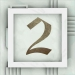
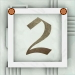
buildings and workers images updated

Changed region(s): [[0.8, 0.1067, 0.9067, 0.2133], [0.1067, 0.1067, 0.2133, 0.2133]]

diff --git a/src/main/java/it/polimi/ingsw/view/GUIpackage/TileButton.java b/src/main/java/it/polimi/ingsw/view/GUIpackage/TileButton.java
@@ -32,9 +32,10 @@ public class TileButton extends JButton {
     public TileButton(int row, int col, JPanel panel) {
         coordinate = new Coordinate(row, col);
         vSlot = new VirtualSlot(coordinate);
-        red = new ImageIcon(GUI.class.getResource("/Colors/red_normal.png")).getImage().getScaledInstance(90, 90, Image.SCALE_SMOOTH);
-        blue = new ImageIcon(GUI.class.getResource("/Colors/blue_normal.png")).getImage().getScaledInstance(90, 90, Image.SCALE_SMOOTH);
-        white = new ImageIcon(GUI.class.getResource("/Colors/white_normal.png")).getImage().getScaledInstance(90, 90, Image.SCALE_SMOOTH);
+        setBorder(null);
+        red = new ImageIcon(GUI.class.getResource("/WorkersAnimation/red.png")).getImage();
+        blue = new ImageIcon(GUI.class.getResource("/WorkersAnimation/blue.png")).getImage();
+        white = new ImageIcon(GUI.class.getResource("/WorkersAnimation/tan.png")).getImage();
         uno = new ImageIcon(GUI.class.getResource("/Buildings/1.jpg")).getImage();
         due = new ImageIcon(GUI.class.getResource("/Buildings/2.jpg")).getImage();
         tre = new ImageIcon(GUI.class.getResource("/Buildings/3.jpg")).getImage();
@@ -117,7 +118,7 @@ public class TileButton extends JButton {
     protected void paintComponent(Graphics g) {
         //super.paintComponent(g);
         g.drawImage(this.getFloor(), 3, 3, panel);
-        g.drawImage(this.getWorker(), 0, 0, panel);
+        g.drawImage(this.getWorker(), 17, 17, panel);
     }
 
 
